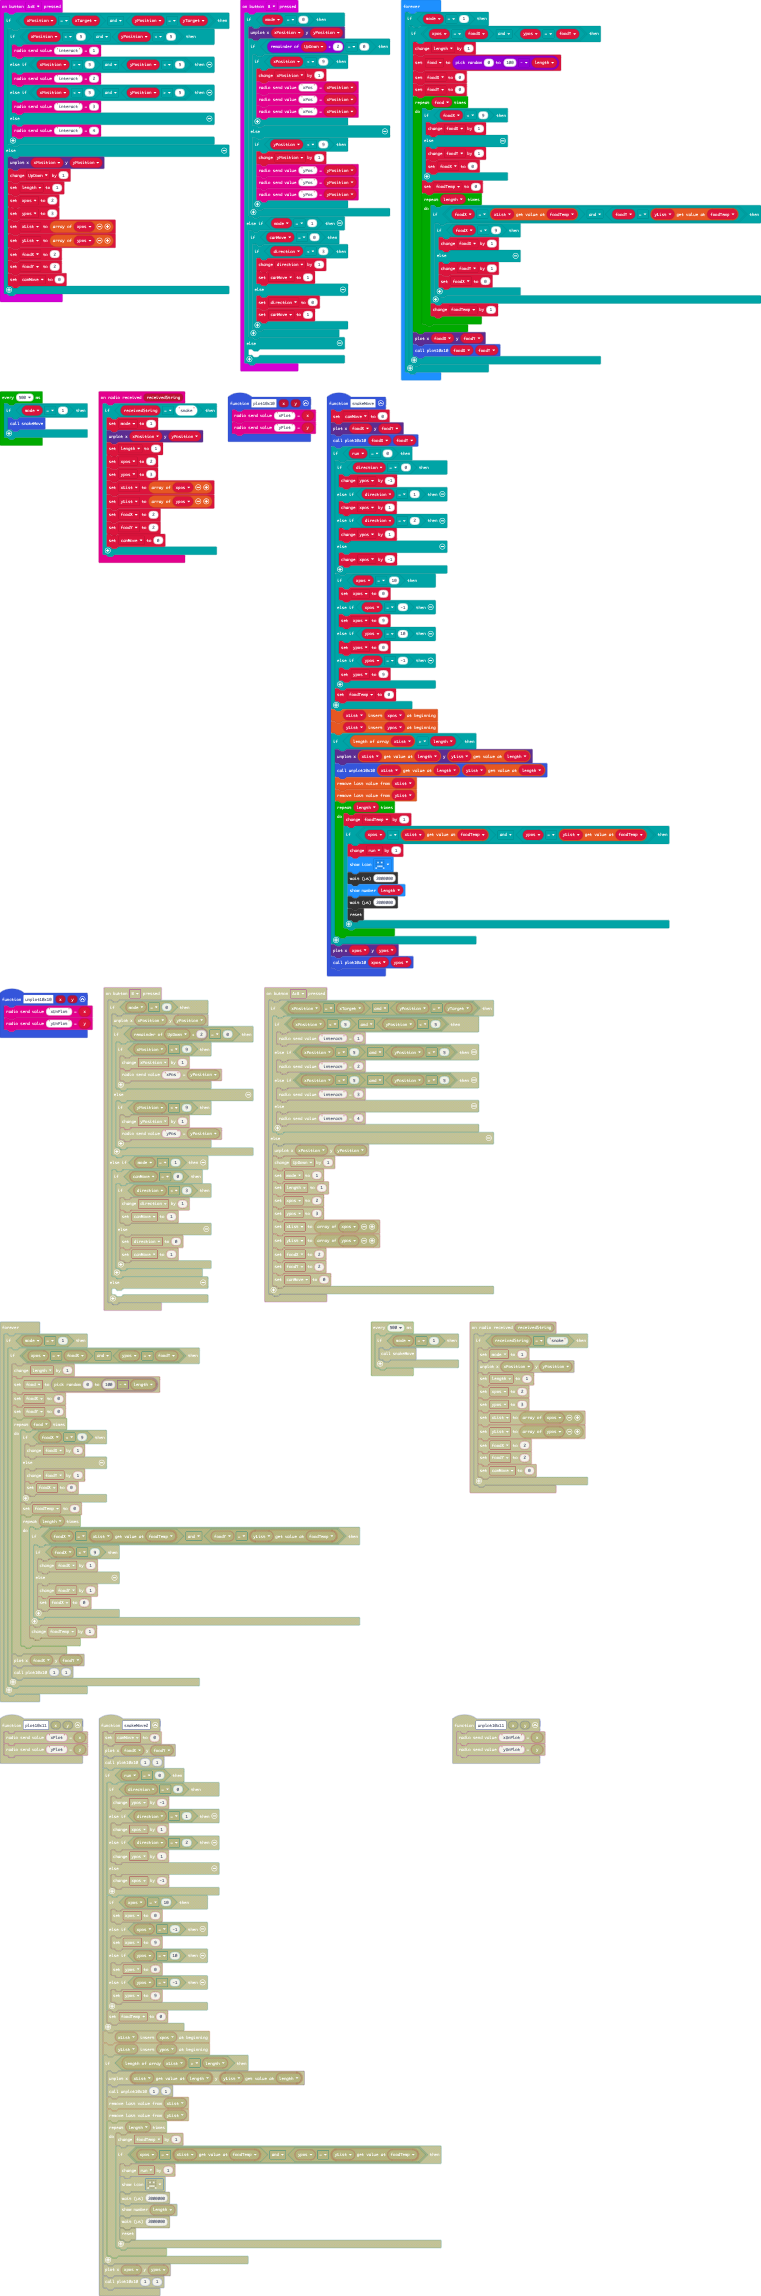
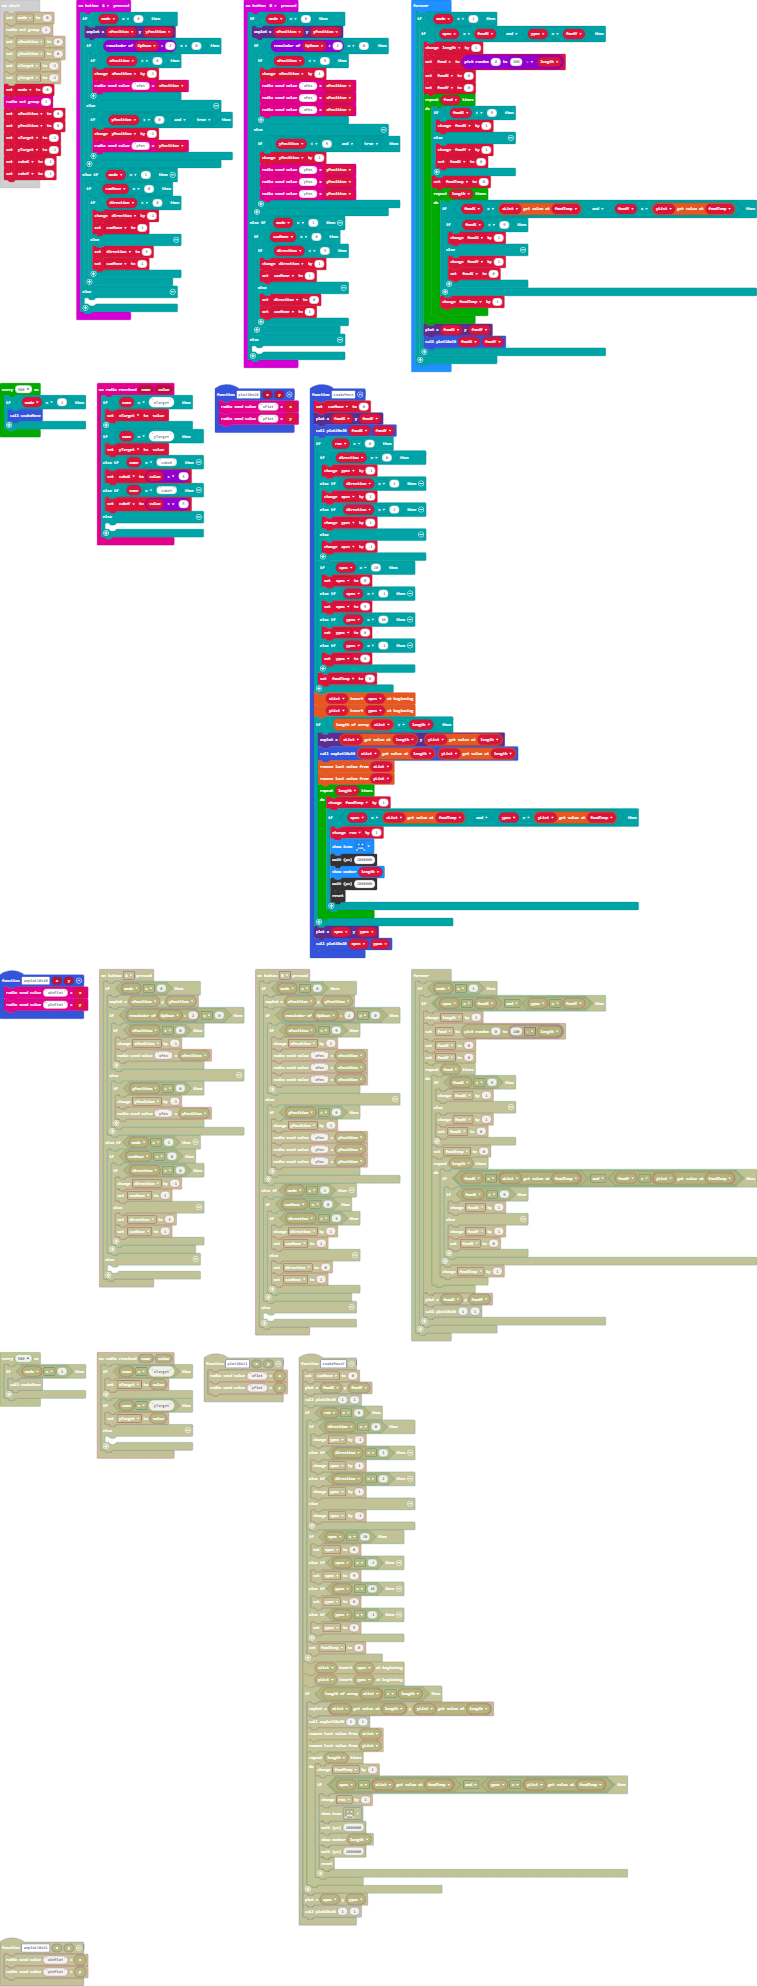
Update main.blocks, main.ts

diff --git a/main.ts b/main.ts
@@ -11,7 +11,7 @@ input.onButtonPressed(Button.A, function () {
                 radio.sendValue("xPos", xPosition)
             }
         } else {
-            if (yPosition > 0) {
+            if (yPosition > 0 && true) {
                 yPosition += -1
                 radio.sendValue("yPos", yPosition)
             }
@@ -79,7 +79,7 @@ input.onButtonPressed(Button.B, function () {
                 radio.sendValue("xPos", xPosition)
             }
         } else {
-            if (yPosition < 9) {
+            if (yPosition < 9 && true) {
                 yPosition += 1
                 radio.sendValue("yPos", yPosition)
                 radio.sendValue("yPos", yPosition)
@@ -153,6 +153,10 @@ radio.onReceivedValue(function (name, value) {
     }
     if (name == "yTarget") {
         yTarget = value
+    } else if (name == "cubeX") {
+        cubeX = value + 5
+    } else if (name == "cubeY") {
+        cubeY = value + 5
     } else {
     	
     }
@@ -174,6 +178,8 @@ let length = 0
 let direction = 0
 let canMove = 0
 let UpDown = 0
+let cubeY = 0
+let cubeX = 0
 let yTarget = 0
 let xTarget = 0
 let yPosition = 0
@@ -185,6 +191,8 @@ xPosition = 0
 yPosition = 0
 xTarget = -1
 yTarget = -1
+cubeX = -1
+cubeY = -1
 loops.everyInterval(500, function () {
     if (mode == 1) {
         snakeMove()
